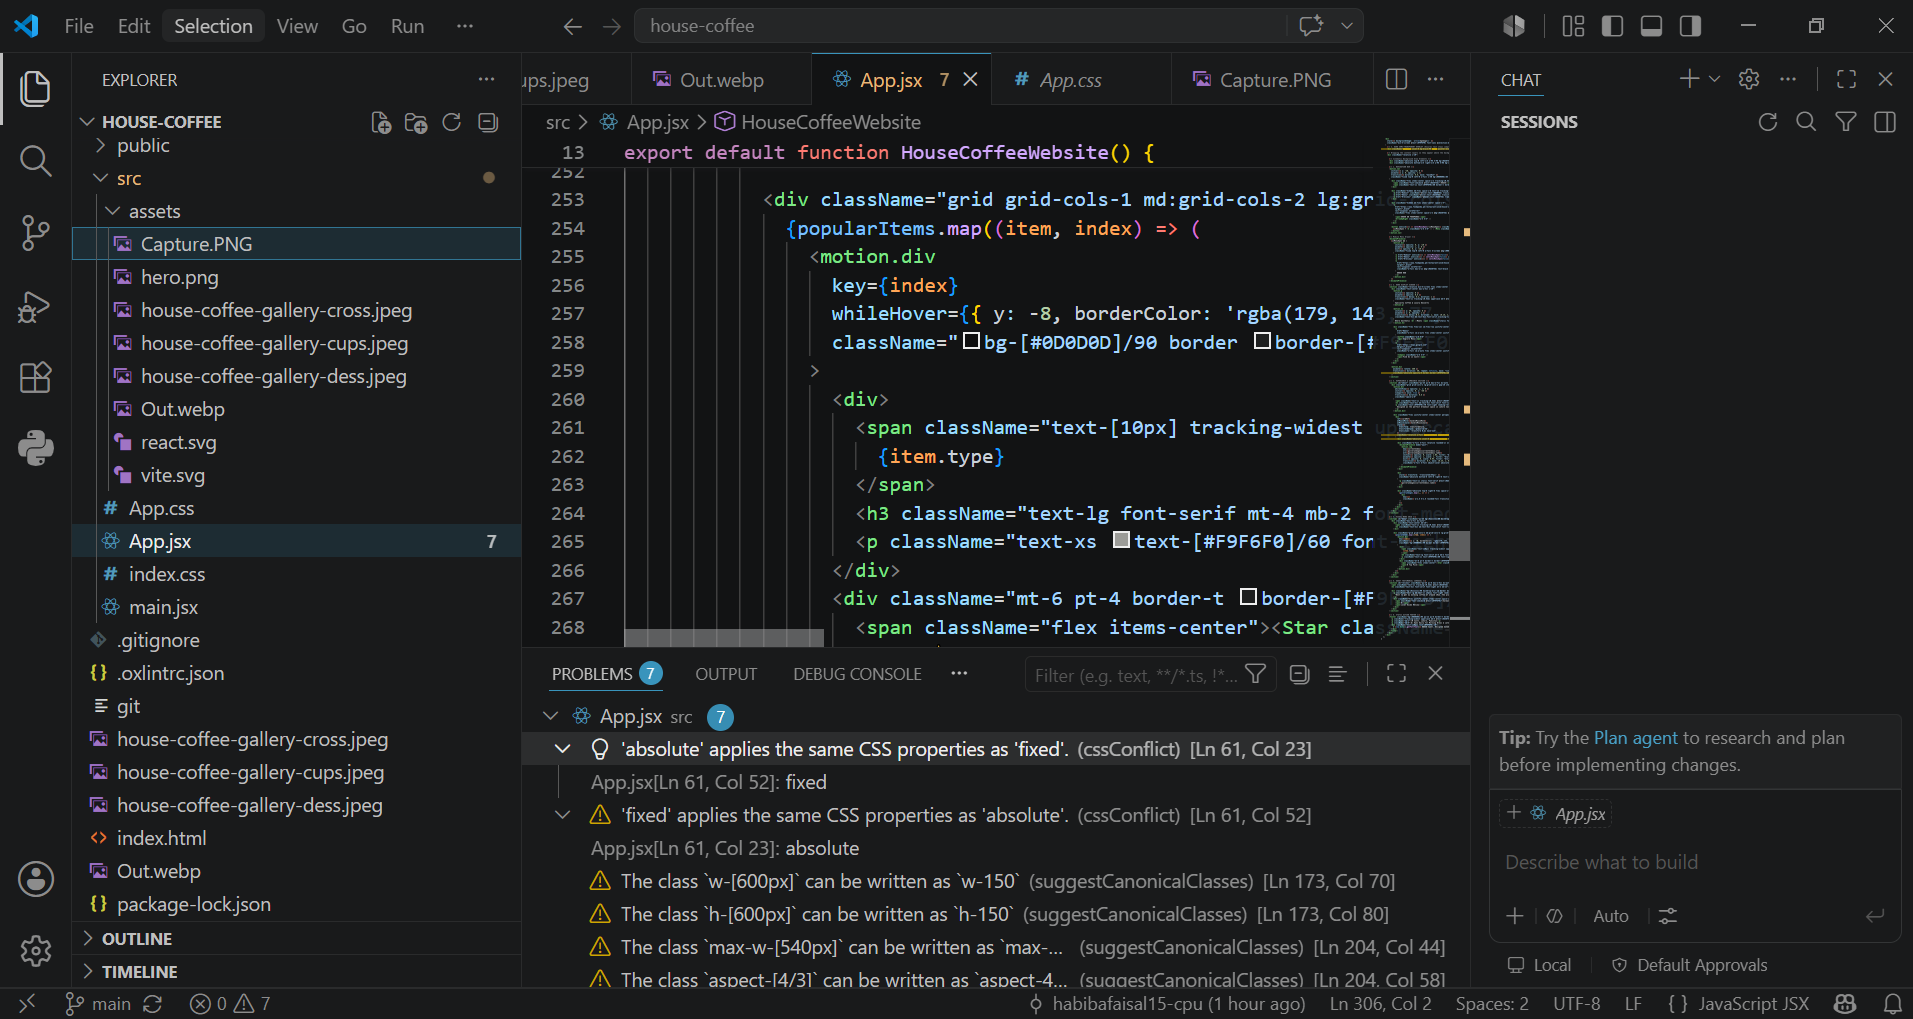
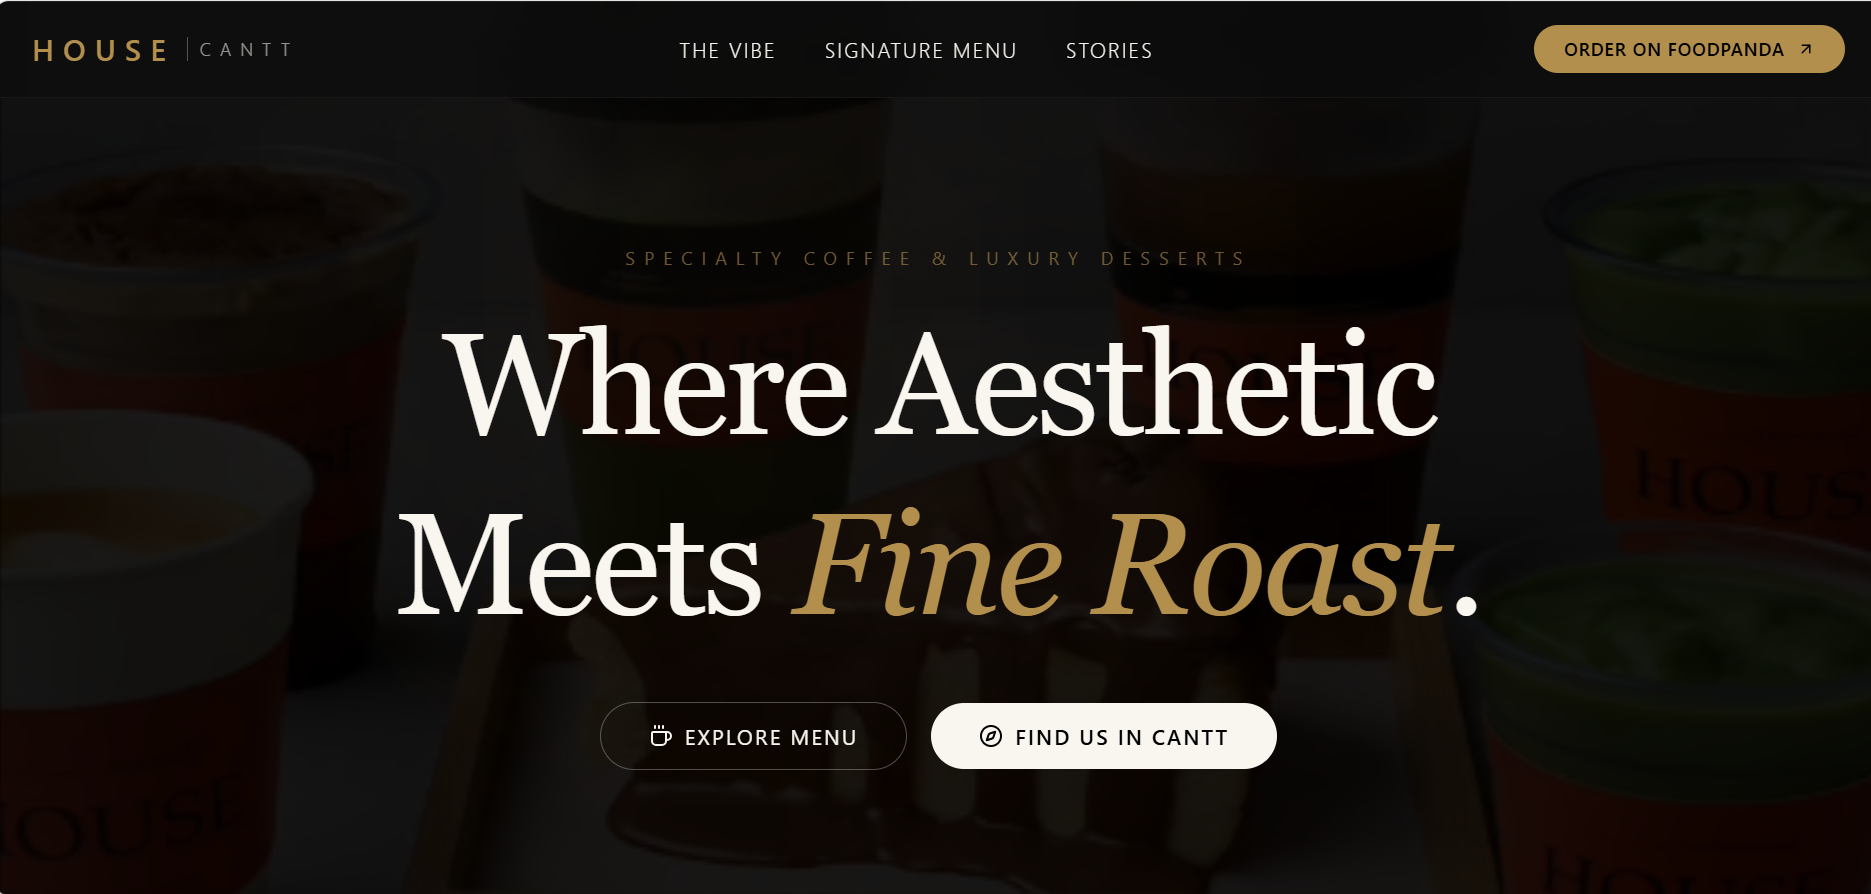
Increase background image visibility by lowering overlay opacity

diff --git a/src/App.jsx b/src/App.jsx
@@ -58,7 +58,8 @@ export default function HouseCoffeeWebsite() {
       className="min-h-screen text-[#F9F6F0] font-sans selection:bg-[#b38f4d] selection:text-black overflow-x-hidden bg-fixed bg-cover bg-center relative"
     >
       {/* 3. FIXED OVERLAY: Cleaned up the conflicting 'absolute' class from line 61 */}
-      <div className="fixed inset-0 bg-black/90 pointer-events-none z-0" />
+      {/* Change bg-black/90 to bg-black/50 on this line: */}
+<div className="fixed inset-0 bg-black/50 pointer-events-none z-0" />
 
       {/* Wrapping the content layers so they appear above the background image overlay */}
       <div className="relative z-10">